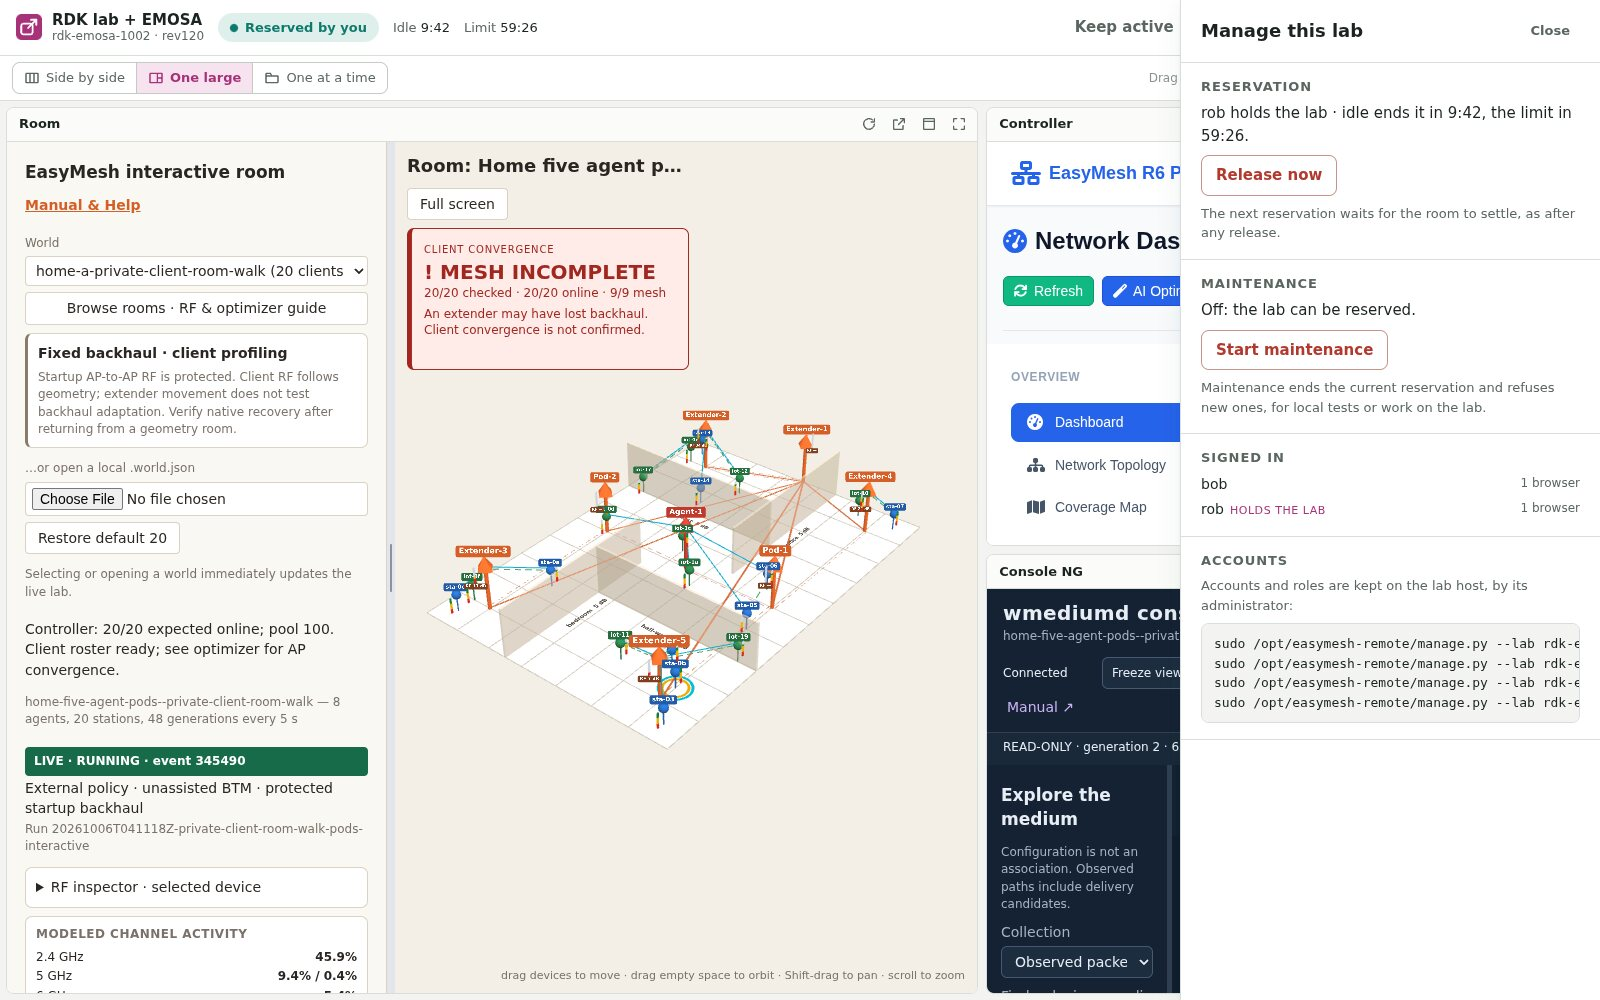
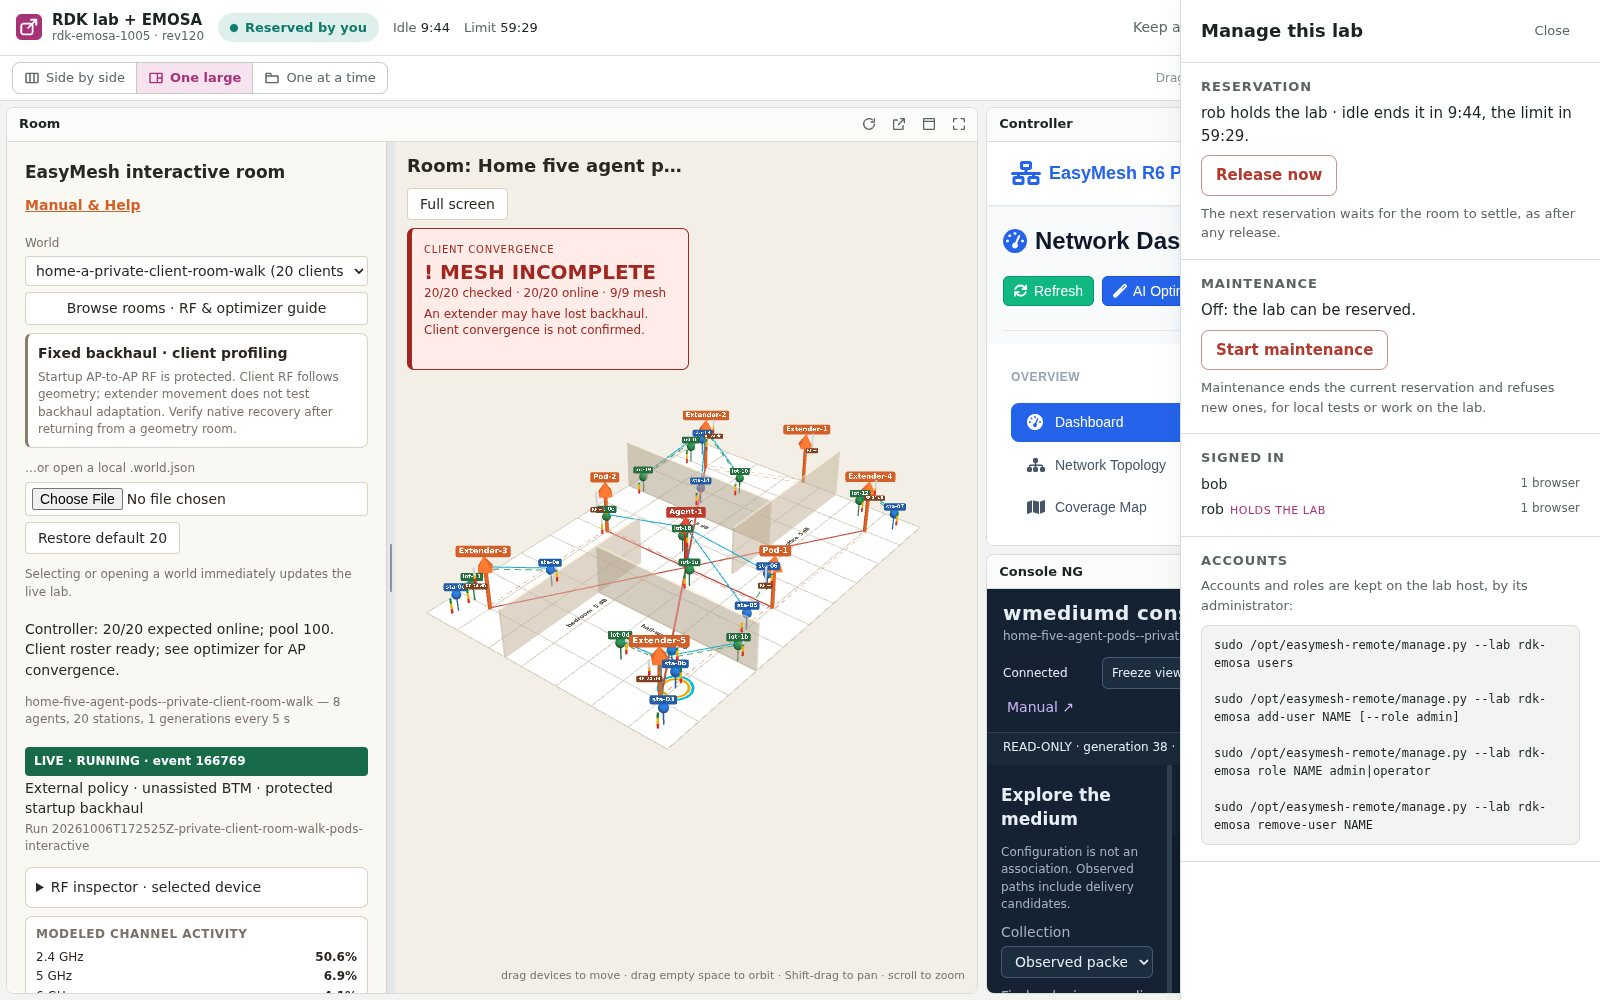
rdk-emosa serves rdk-emosa-1005: retarget run on rev120, the posters and the endpoint reference follow
rdk-emosa-1002 stopped; retarget --vm rdk-emosa-1005 moved the lab to its rebuild
(host ports 22010 to 22012, the VM at 10.77.171.250) with its address, accounts and
state unchanged. Checked over the tailnet: the three interfaces of 1005 side by
side, the lab card with the new VM and its build date. The posters' screenshots
retaken against 1005 (the tailnet's name masked as before), their addresses and
what is open updated.

diff --git a/site/posters/flow.html b/site/posters/flow.html
@@ -26,9 +26,10 @@
     remote access: the lab's Tailscale device, its gateway and its firewall, from one
     installation in <code>/opt/easymesh-remote</code>. Operators reach it over SSH.</p></div>
     <div class="host"><h3>rdk-emosa · the lab</h3><p>The RDK lab with EMOSA, named after its
-    configuration. Its VM now is <code>rdk-emosa-1002</code>: the controller's interface
+    configuration. Its VM now is <code>rdk-emosa-1005</code>, built 6 October (it replaced
+    <code>rdk-emosa-1002</code> by <code>retarget</code>): the controller's interface
     <code>:8888</code>, Console NG <code>:8890</code>, the room <code>:8891</code>, published
-    on the host as <code>192.168.2.120:20110/1/2</code>.</p></div>
+    on the host as <code>192.168.2.120:22010/1/2</code>.</p></div>
     <div class="host"><h3>rdk-emosa.&lt;tailnet&gt;.ts.net</h3><p>The lab's own address since
     6 October: a Tailscale device of the lab's, on the host, kept across rebuilds. Ports
     <code>443</code>, <code>8443</code>, <code>10000</code>; nothing else answers on it.</p></div>
@@ -86,7 +87,7 @@
         <rect class="zone dashed" x="16" y="420" width="246" height="170" rx="14"/>
         <text class="zt" x="32" y="448">The lab network</text>
         <text class="zs" x="32" y="468">trusted (Q3)</text>
-        <text class="t" x="32" y="498">192.168.2.120:20110–20112</text>
+        <text class="t" x="32" y="498">192.168.2.120:22010–22012</text>
         <text class="t" x="32" y="518">bookmarks, rev150's suites</text>
         <text class="t" x="32" y="546">the same reservation:</text>
         <text class="t" x="32" y="564">local tools take it, next</text>
@@ -151,12 +152,12 @@
         <rect class="zone dashed" x="850" y="404" width="516" height="96" rx="12"/>
         <text class="zt" x="1010" y="430">LXD proxy devices</text>
         <text class="zs" x="1010" y="450">the lab's ports on the host</text>
-        <text class="t" x="1010" y="476">20110 → 8888 · 20111 → 8890 · 20112 → 8891</text>
+        <text class="t" x="1010" y="476">22010 → 8888 · 22011 → 8890 · 22012 → 8891</text>
       </g>
 
       <g class="rdk">
         <rect class="zone" x="850" y="530" width="516" height="270" rx="14"/>
-        <text class="zt" x="1010" y="556">rdk-emosa-1002</text>
+        <text class="zt" x="1010" y="556">rdk-emosa-1005</text>
         <text class="zs" x="1010" y="574">the lab's VM, unchanged</text>
         <rect class="sub" x="866" y="606" width="156" height="120" rx="10"/>
         <text class="b" x="878" y="632">the controller</text>
@@ -175,7 +176,7 @@
       </g>
       <g class="rdk">
         <text class="t" x="866" y="760">gateway · extenders · 2 pods · 20 clients · wmediumd</text>
-        <text class="t" x="866" y="780">10.77.171.249, on the host's LXD bridge</text>
+        <text class="t" x="866" y="780">10.77.171.250, on the host's LXD bridge</text>
         <text class="t" x="560" y="708">open while the lab is private (Q3)</text>
         <text class="t" x="560" y="744">closed by the firewall for a public lab</text>
       </g>
@@ -226,7 +227,7 @@
       <ol class="steps">
         <li>Every request of the reserved browser is forwarded: plain HTTP, the room's event stream, the controller's and Console NG's WebSockets. Anyone else gets 423.</li>
         <li>The gateway removes its own cookie and any identity headers before the lab, and lets only the lab's own origins frame what it returns.</li>
-        <li>It reaches the lab through the host's LXD proxy devices, <code>192.168.2.120:20110–20112</code>, which NAT into the VM's <code>:8888</code>, <code>:8890</code>, <code>:8891</code>.</li>
+        <li>It reaches the lab through the host's LXD proxy devices, <code>192.168.2.120:22010–22012</code>, which NAT into the VM's <code>:8888</code>, <code>:8890</code>, <code>:8891</code>.</li>
         <li>In the page each interface sits in a tile on its own origin; the tile sees real input there and renews the reservation.</li>
       </ol>
     </article>
@@ -249,9 +250,9 @@
         <table>
           <thead><tr><th>Public</th><th>What</th><th>Gateway → host → VM</th></tr></thead>
           <tbody>
-            <tr><td><code>rdk-emosa.&lt;tailnet&gt;.ts.net</code></td><td>the controller's interface and API</td><td><code>:40285 → 192.168.2.120:20110 → 10.77.171.249:8888</code></td></tr>
-            <tr><td><code>…:8443</code></td><td>Console NG</td><td><code>:40286 → :20111 → :8890</code></td></tr>
-            <tr><td><code>…:10000</code></td><td>the room, its API and its events</td><td><code>:40287 → :20112 → :8891</code></td></tr>
+            <tr><td><code>rdk-emosa.&lt;tailnet&gt;.ts.net</code></td><td>the controller's interface and API</td><td><code>:40285 → 192.168.2.120:22010 → 10.77.171.250:8888</code></td></tr>
+            <tr><td><code>…:8443</code></td><td>Console NG</td><td><code>:40286 → :22011 → :8890</code></td></tr>
+            <tr><td><code>…:10000</code></td><td>the room, its API and its events</td><td><code>:40287 → :22012 → :8891</code></td></tr>
             <tr><td><code>/_remote/</code> on each</td><td>the lab's page, its status, sign-in and reservation</td><td>the gateway itself</td></tr>
             <tr><td><code>/_remote/tile</code></td><td>one interface, framed on its own origin</td><td>the gateway itself</td></tr>
           </tbody>
@@ -310,6 +311,7 @@
         <li class="remote">The lab's page<small>the welcome with the lab card, every interface in one window, operators and admins</small></li>
         <li class="optimizer">The lab's own address<small>a Tailscale device per lab on its host; Tailscale Services would need a tagged host, Tailscale in the VM would expose the VM</small></li>
         <li class="umbrella">The requirements confirmed<small>the team first, programs soon, the lab network trusted, <code>retarget</code> after each rebuild, no public access yet</small></li>
+        <li class="rdk">rdk-emosa moved to its rebuild<small><code>retarget --vm rdk-emosa-1005</code>: the same address, accounts and state; 1002 stopped</small></li>
       </ul>
     </div>
     <div class="panel">
@@ -317,7 +319,7 @@
       <ul class="timeline">
         <li class="open">The team's Tailscale sign-in<small>step 5: no second password for someone the tailnet already knows</small></li>
         <li class="open">Programs and suites<small>step 6: keys, reservations of hours, the suites' reservation in place of maintenance</small></li>
-        <li class="open">The builds run <code>retarget</code><small>rdk-emosa-1005 runs beside 1002 since this morning, not yet served</small></li>
+        <li class="open">The builds run <code>retarget</code><small>rdk-emosa moved from 1002 to 1005 by hand on 6 October; a lab's build should do it</small></li>
         <li class="open">The other labs<small>step 7: prplMesh and OpenSync + EMOSA name their interfaces differently</small></li>
         <li class="open">Funnel never tried<small>no public access until a partner asks (Q5)</small></li>
         <li class="open">The RDK lab's old copy of the gateway<small>still in meta-cmf-bananapi-vcpe, with every bug above</small></li>

diff --git a/site/posters/people.html b/site/posters/people.html
@@ -97,7 +97,7 @@
       <h2><svg viewBox="0 0 24 24" fill="none" stroke="currentColor" stroke-width="1.8" stroke-linecap="round"><rect x="3" y="4" width="18" height="7" rx="2"/><rect x="3" y="13" width="18" height="7" rx="2"/><path d="M7 7.5h.01M7 16.5h.01"/></svg>The lab network</h2>
       <p class="repo">trusted · requirement Q3</p>
       <ul class="rows">
-        <li><b>Uses the lab's ports as before</b><code>192.168.2.120:20110 · 20111 · 20112</code></li>
+        <li><b>Uses the lab's ports as before</b><code>192.168.2.120:22010 · 22011 · 22012</code></li>
         <li><b>Not closed for a private lab</b><code>bookmarks and rev150's room suites keep working</code></li>
         <li><b>Shares the lab by the same reservation</b><code>local tools take it: step 6</code></li>
       </ul>
@@ -205,7 +205,7 @@
     <figure><img src="img/remote-one-large.jpg" width="1600" height="1000" alt="The workspace in its one large layout: the room large on the left, the controller and Console NG stacked on the right" loading="lazy"><figcaption><b>3 · One large</b> · the room beside the controller and Console NG; the idle and limit timers in the bar</figcaption></figure>
     <figure><img src="img/remote-tabs.jpg" width="1600" height="1000" alt="The workspace one at a time: the room alone, with tabs for the room, the controller and Console NG" loading="lazy"><figcaption><b>4 · One at a time</b> · the room alone, the others a tab away and still live</figcaption></figure>
     <figure><img src="img/remote-in-use.jpg" width="1600" height="1000" alt="The lab's page in dark mode for bob while alice holds the lab: In use by alice, free within 12:00 at the latest, the reserve button disabled" loading="lazy"><figcaption><b>5 · In use</b> · bob, meanwhile: who holds the lab and when it is free at the latest</figcaption></figure>
-    <figure><img src="img/remote-admin.jpg" width="1600" height="1000" alt="The Manage panel: the reservation with its timers and Release now, maintenance with its button, who is signed in, and the commands for accounts" loading="lazy"><figcaption><b>6 · Manage</b> · an admin's panel (a test run against rdk-emosa-1002's interfaces)</figcaption></figure>
+    <figure><img src="img/remote-admin.jpg" width="1600" height="1000" alt="The Manage panel: the reservation with its timers and Release now, maintenance with its button, who is signed in, and the commands for accounts" loading="lazy"><figcaption><b>6 · Manage</b> · an admin's panel (a test run against rdk-emosa-1005's interfaces)</figcaption></figure>
   </section>
 
   <section class="stage-panels" aria-label="The requirements and what is open">
@@ -229,7 +229,7 @@
       <ul class="timeline">
         <li class="open">The team still signs in with a gateway password<small>step 5: the Tailscale identity the tailnet already checked</small></li>
         <li class="open">Programs and suites cannot reserve a lab<small>step 6: keys and reservations of hours; until then a suite runs under maintenance</small></li>
-        <li class="open">rdk-emosa-1005 is not served yet<small>built this morning beside 1002; retarget once it is accepted</small></li>
+        <li class="open">A rebuild still needs an operator<small>rdk-emosa moved to 1005 by hand (retarget); the lab's build should run it</small></li>
         <li class="open">Only the RDK labs<small>step 7: the prplMesh and OpenSync labs name their interfaces differently</small></li>
       </ul>
     </div>

diff --git a/docs/reference/lab-endpoints.md b/docs/reference/lab-endpoints.md
@@ -148,3 +148,7 @@ cannot be reserved as the code stands.
   the tailnet: the three interfaces side by side in the lab's page with valid certificates;
   on the lab's name only 443, 8443 and 10000 answer, while the host's SSH, web server and
   printing service (listening on its loopback) are refused.
+- rev120, later on 6 October: `rdk-emosa-1002` stopped; the lab moved to its rebuild with
+  `retarget --vm rdk-emosa-1005` (host ports 22010 to 22012, the VM at `10.77.171.250`), its
+  address, accounts and state unchanged. Checked over the tailnet: the three interfaces of
+  1005 side by side, the lab card showing the new VM and its build date.
